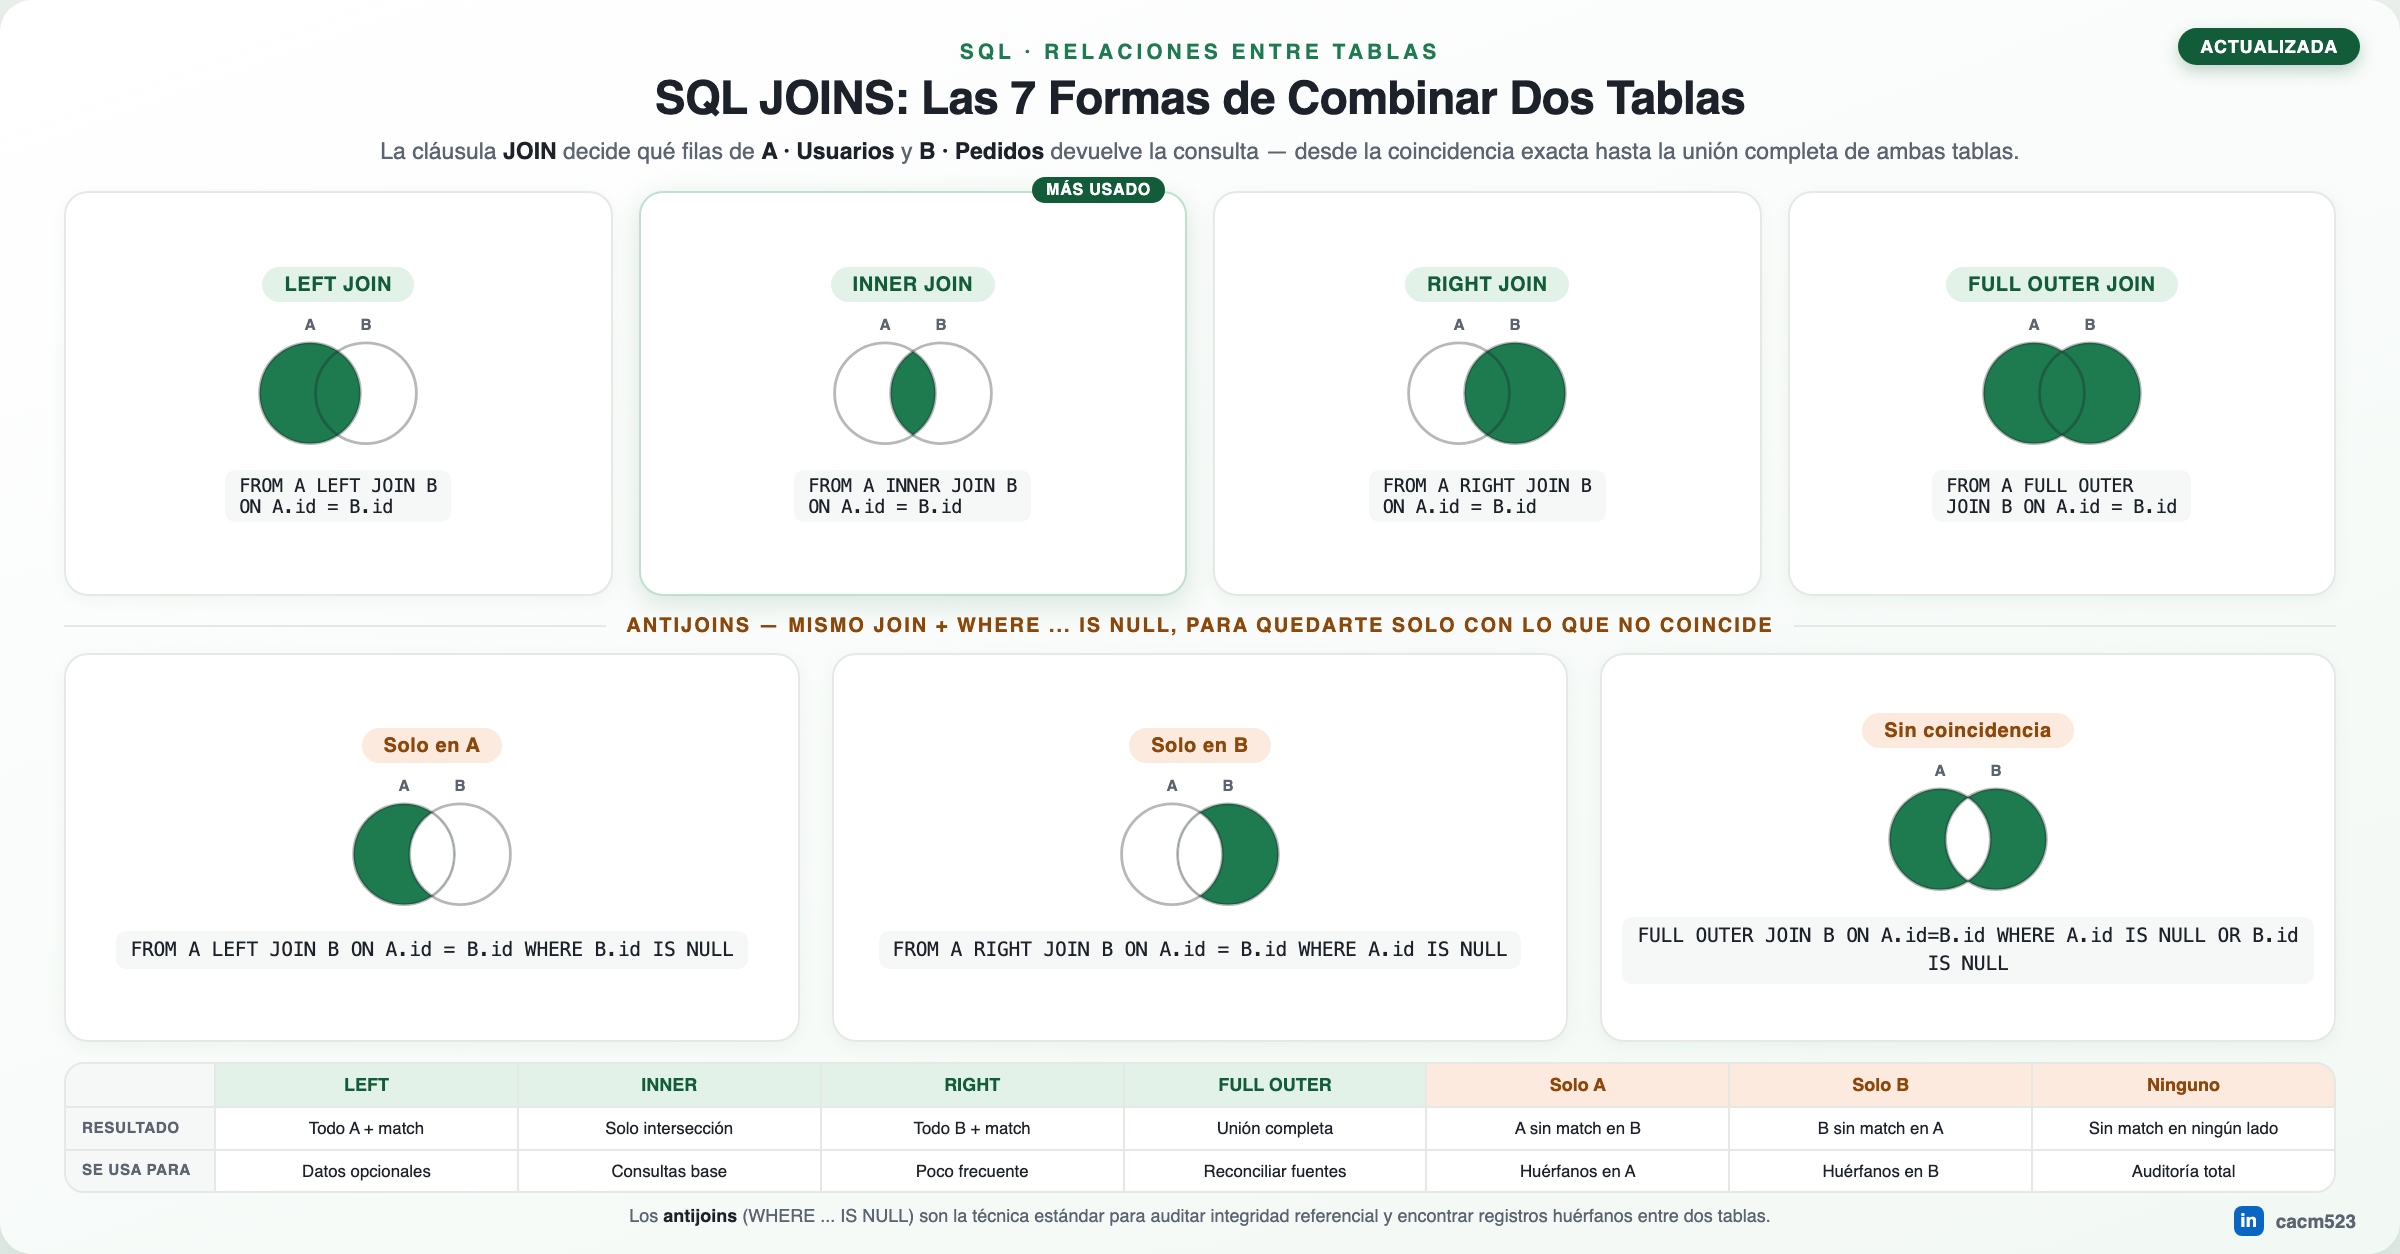
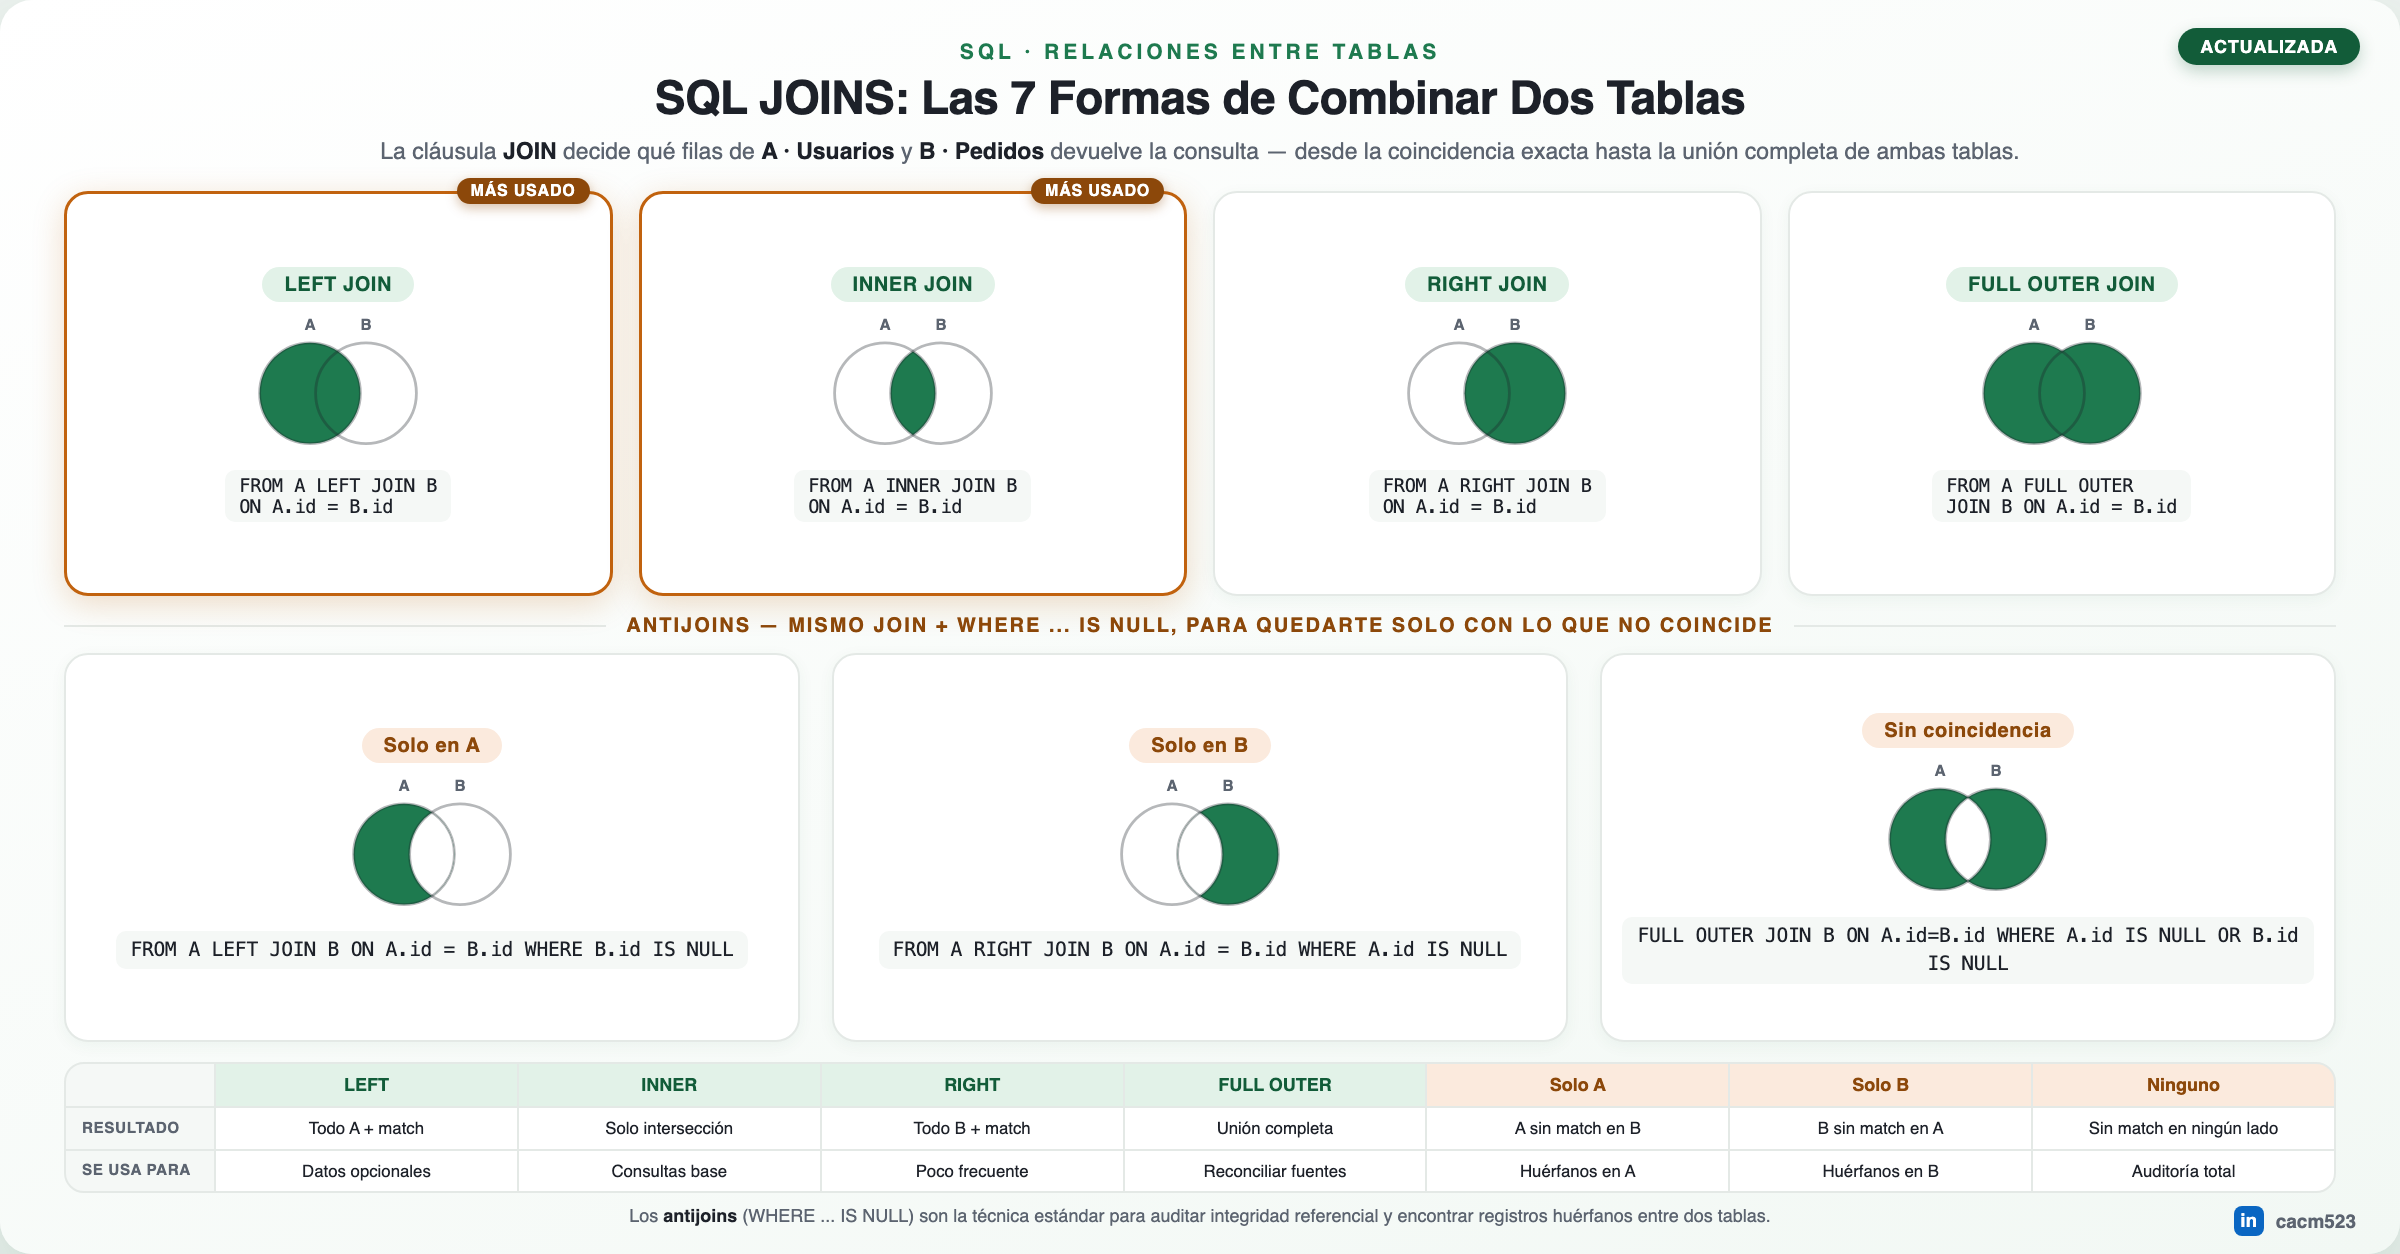
Destaca LEFT JOIN junto a INNER JOIN como los más usados
Ambas tarjetas usan ahora borde y etiqueta "Más usado" en el acento
tierra (en vez de verde) para diferenciarse claramente de los otros
joins base y llamar la atención sobre cuáles son los más comunes en
la práctica.

Changed region(s): [[0.0312, 0.4665, 0.25, 0.4976], [0.4062, 0.1244, 0.5, 0.1866], [0.1875, 0.1244, 0.2812, 0.1866]]

diff --git a/Construidos/SQL/sql-joins.html b/Construidos/SQL/sql-joins.html
@@ -49,8 +49,8 @@
     padding:9px 10px 8px; display:flex; flex-direction:column; align-items:center; justify-content:center; gap:4px;
     box-shadow:0 2px 8px rgba(18,92,57,0.05);
   }
-  .jcard.star{ border-color:var(--green-line); box-shadow:0 4px 14px rgba(18,92,57,0.14); }
-  .jcard .star-tag{ position:absolute; top:-8px; right:10px; background:var(--green-dark); color:#fff; font-size:8px; font-weight:800; letter-spacing:.4px; padding:2px 7px; border-radius:20px; text-transform:uppercase; }
+  .jcard.star{ border-color:var(--earth); border-width:1.5px; box-shadow:0 4px 16px rgba(193,98,14,0.22); }
+  .jcard .star-tag{ position:absolute; top:-8px; right:10px; background:var(--earth-dark); color:#fff; font-size:8px; font-weight:800; letter-spacing:.4px; padding:2px 7px; border-radius:20px; text-transform:uppercase; box-shadow:0 2px 6px rgba(140,72,10,0.35); }
 
   .badge{ font-size:10px; font-weight:800; letter-spacing:.3px; padding:3px 11px; border-radius:20px; white-space:nowrap; }
   .badge.green{ background:var(--green-pale); color:var(--green-dark); }
@@ -95,7 +95,8 @@
 
     <div class="grid-top">
 
-      <div class="jcard">
+      <div class="jcard star">
+        <span class="star-tag">Más usado</span>
         <span class="badge green">LEFT JOIN</span>
         <svg viewBox="0 0 140 106">
           <defs><clipPath id="cB1"><circle cx="90" cy="58" r="36"/></clipPath></defs>